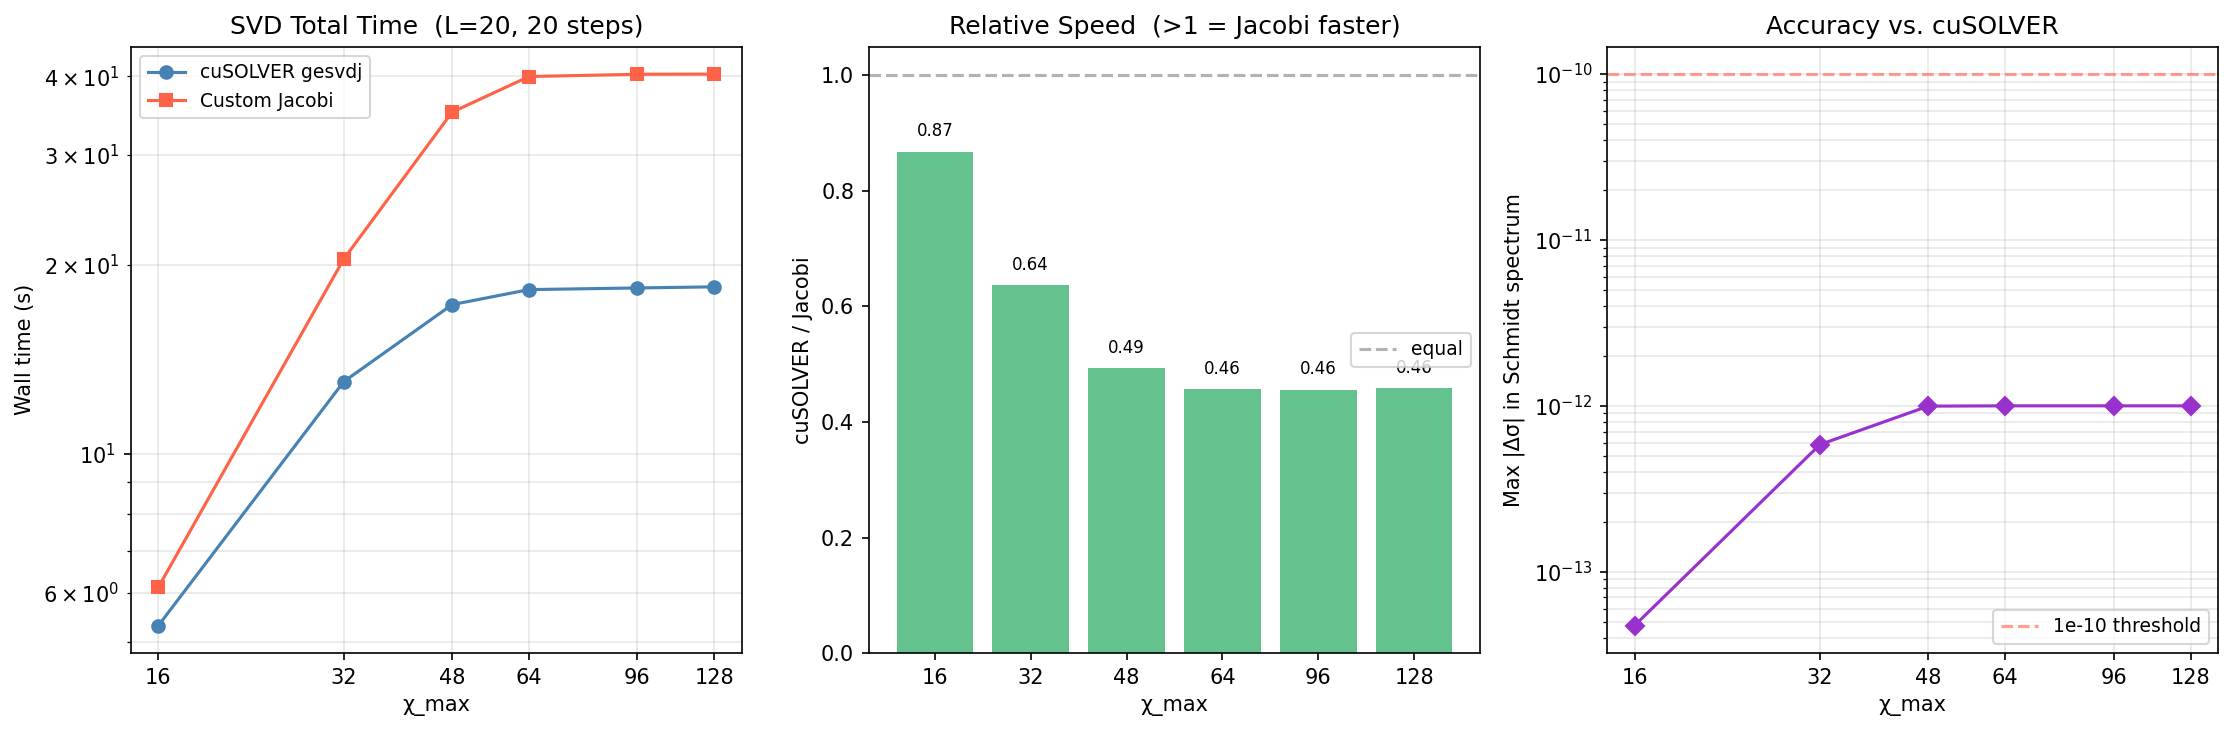
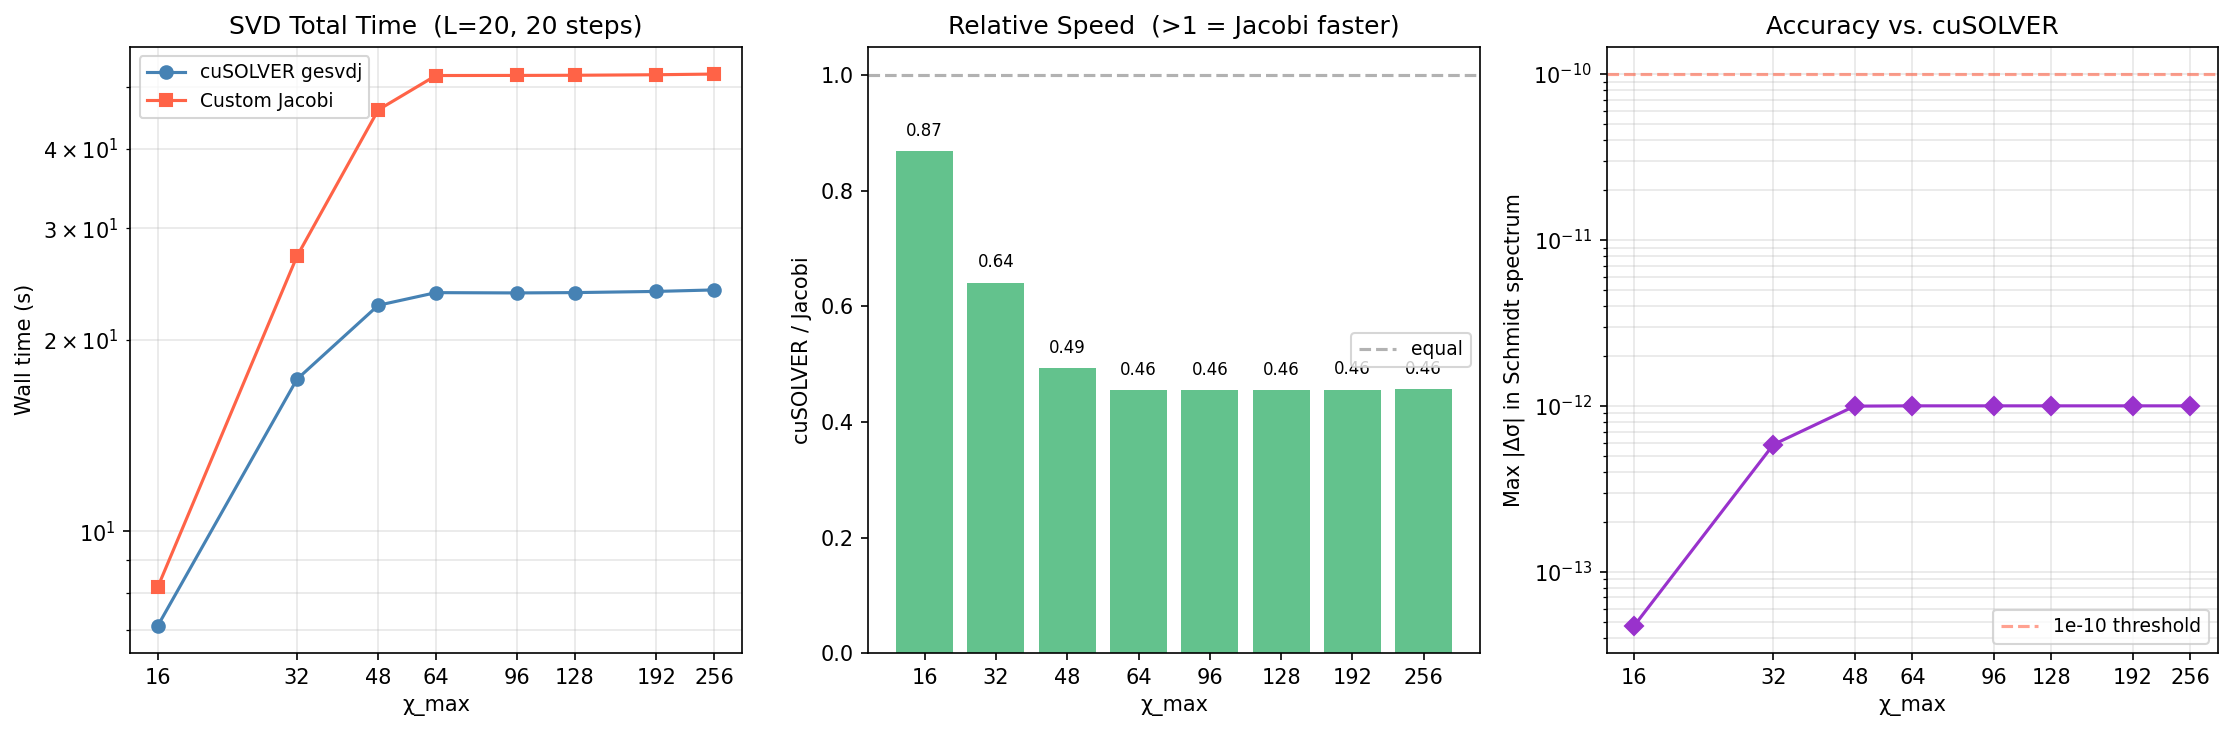
Add phase heatmap, extend bench_svd to chi=256, strengthen bottleneck analysis

diff --git a/src/scripts/plot_phase_heatmap.py b/src/scripts/plot_phase_heatmap.py
@@ -1,0 +1,115 @@
+#!/usr/bin/env python3
+"""
+Plot (J, g) phase-diagram heatmaps of final mid-chain entropy and max bond
+dimension from the sweep_mpi strong-scaling CSV.
+
+Usage:
+    python3 scripts/plot_phase_heatmap.py <sweep_csv> --out <output.png>
+
+Example:
+    python3 scripts/plot_phase_heatmap.py \
+        ../lib/minimal_tebd_c/strong_p1.csv \
+        --out ../../doc/figs/phase_heatmap.png
+"""
+
+import argparse
+import csv
+import sys
+
+import matplotlib
+matplotlib.use("Agg")
+import matplotlib.pyplot as plt
+import numpy as np
+
+
+def load_csv(path):
+    rows = []
+    with open(path, newline="") as fh:
+        reader = csv.DictReader(fh)
+        for row in reader:
+            rows.append({
+                "J":             float(row["J"]),
+                "g":             float(row["g"]),
+                "max_chi":       int(row["max_chi"]),
+                "final_entropy": float(row["final_entropy"]),
+                "t_wall_s":      float(row["t_wall_s"]),
+            })
+    return rows
+
+
+def pivot(rows, key, J_vals, g_vals):
+    grid = np.full((len(J_vals), len(g_vals)), np.nan)
+    j_idx = {v: i for i, v in enumerate(J_vals)}
+    g_idx = {v: i for i, v in enumerate(g_vals)}
+    for r in rows:
+        i = j_idx.get(r["J"])
+        j = g_idx.get(r["g"])
+        if i is not None and j is not None:
+            grid[i, j] = r[key]
+    return grid
+
+
+def add_heatmap(ax, grid, J_vals, g_vals, title, fmt, cmap):
+    im = ax.imshow(grid, cmap=cmap, aspect="auto",
+                   origin="lower",
+                   extent=[g_vals[0] - 0.25, g_vals[-1] + 0.25,
+                           J_vals[0] - 0.25, J_vals[-1] + 0.25])
+    ax.set_xticks(g_vals)
+    ax.set_yticks(J_vals)
+    ax.set_xlabel("g  (transverse field)", fontsize=11)
+    ax.set_ylabel("J  (coupling)", fontsize=11)
+    ax.set_title(title, fontsize=12)
+    plt.colorbar(im, ax=ax, fraction=0.046, pad=0.04)
+    for i, J in enumerate(J_vals):
+        for j, g in enumerate(g_vals):
+            val = grid[i, j]
+            if not np.isnan(val):
+                ax.text(g, J, fmt.format(val),
+                        ha="center", va="center",
+                        fontsize=9, color="white",
+                        fontweight="bold")
+
+
+def main():
+    parser = argparse.ArgumentParser()
+    parser.add_argument("csv", help="sweep_mpi strong CSV (e.g. strong_p1.csv)")
+    parser.add_argument("--out", default="phase_heatmap.png")
+    args = parser.parse_args()
+
+    rows = load_csv(args.csv)
+    if not rows:
+        print("No data in", args.csv, file=sys.stderr)
+        sys.exit(1)
+
+    J_vals = sorted(set(r["J"] for r in rows))
+    g_vals = sorted(set(r["g"] for r in rows))
+
+    entropy_grid = pivot(rows, "final_entropy", J_vals, g_vals)
+    chi_grid     = pivot(rows, "max_chi",       J_vals, g_vals)
+
+    fig, axes = plt.subplots(1, 2, figsize=(11, 4.5))
+
+    add_heatmap(axes[0], entropy_grid, J_vals, g_vals,
+                "Mid-chain entanglement entropy\n(end of evolution)",
+                "{:.2f}", "YlOrRd")
+
+    add_heatmap(axes[1], chi_grid, J_vals, g_vals,
+                "Max bond dimension $\\chi_a$ reached\n(cap = 64)",
+                "{:.0f}", "Blues")
+
+    fig.suptitle(
+        "TFIM phase-diagram sweep  ($L=20$, $\\chi_{{\\max}}=64$, 20 steps)",
+        fontsize=13, y=1.01)
+
+    plt.tight_layout()
+    plt.savefig(args.out, dpi=150, bbox_inches="tight")
+    print(f"Saved {args.out}")
+
+    print(f"\n{'J':>5}  {'g':>5}  {'entropy':>10}  {'max_chi':>8}")
+    for r in rows:
+        print(f"{r['J']:>5.2f}  {r['g']:>5.2f}  "
+              f"{r['final_entropy']:>10.6f}  {r['max_chi']:>8d}")
+
+
+if __name__ == "__main__":
+    main()

diff --git a/src/apps/bench_svd.cpp b/src/apps/bench_svd.cpp
@@ -140,7 +140,7 @@ int main(int argc, char** argv) {
   }
 
   std::printf("chi_max,N_steps,t_cusolver_s,t_jacobi_s,ratio,max_err\n");
-  for (int chi_max : {16, 32, 48, 64, 96, 128}) {
+  for (int chi_max : {16, 32, 48, 64, 96, 128, 192, 256}) {
     run_config(L, chi_max, /*N_steps=*/20, /*csv=*/true);
   }
   return 0;

diff --git a/doc/final_report_claude.md b/doc/final_report_claude.md
@@ -316,18 +316,33 @@ The implementation has three regimes, each tied to hardware:
   Gram-orthogonalization is FP64 ALU work; on Turing's limited FP64 throughput
   this dominates, and no amount of stream overlap or transfer elimination can
   move the ceiling. This is the binding bottleneck for the physics we care about.
+  A roofline argument corroborates this: with the $2\chi_a\times2\chi_a$ complex
+  matrix fitting in Turing's 4 MB L2 cache (at $\chi_a=64$ the matrix is 256 KB),
+  each element is loaded from HBM once per sweep, giving a cache-resident
+  arithmetic intensity $I\approx9n/16$ flops/byte where $n=2\chi_a$. At
+  $\chi_a=64$ ($n=128$), $I\approx72$ flops/byte — roughly 95$\times$ above
+  the Turing ridge point ($509\,\text{GFLOP/s}\div672\,\text{GB/s}\approx0.76$
+  flops/byte), placing the SVD well into the compute-bound region. Nsight Systems
+  confirms this: PCIe traffic after persistent MPS is only $\approx0.24$ MB H2D
+  and $0.18$ MB D2H, negligible compared to the $>99.6\%$ kernel-time share of
+  gesvdj.
 - **Single GPU, small $\chi$ — latency-bound.** At the TFIM-realized
-  $\chi_a\approx41$, every SVD matrix is small, so per-bond time is set by kernel
-  launch + cuSOLVER dispatch, not flops (model (a)). This is why the GPU only
-  *wins* once $\chi_{\max}\ge48$ (Table 1): below that, the GPU pays launch
-  overhead the CPU does not.
+  $\chi_a\approx41$, every SVD matrix is small ($82\times82$ complex), so
+  $I\approx41$ flops/byte but the absolute flop count is too small to saturate
+  the GPU. Per-bond time is set by kernel launch and cuSOLVER dispatch overhead
+  $t_0$, not flops — this is why the GPU only *wins* once $\chi_{\max}\ge48$
+  (Table 1): below that, the GPU pays launch overhead the CPU does not.
+  The custom gate and restore kernels ($O(\chi^2)$ work, $<0.4\%$ of kernel time)
+  are always in this launch-bound regime, which is exactly why optimizing them
+  would not move the needle.
 - **Multi-GPU — load imbalance, not communication.** Computation is $>99\%$ of
   wall time and the final `Gatherv` is $<0.01\%$ (Table 2), so the distributed
   bottleneck is purely **load imbalance**: round-robin gives one rank the four
   hardest ($J=2.0$) pairs, which run $2.2\times$ longer than the cheapest,
-  explaining the $\sim19\%$ efficiency gap at $P=4$ (§8). This ties back to the
-  warp/SM execution model only indirectly — the imbalance is at the *task* level
-  (entanglement → $\chi_a$ → $O(\chi_a^3)$), above the kernel.
+  explaining the $\sim19\%$ efficiency gap at $P=4$ (§8). The phase-diagram
+  heatmap (Fig. 6) makes this concrete: $\chi_a$ varies from 21 (cheap, low-$J$
+  paramagnetic corner) to 64 saturated (expensive, high-$J$ critical region),
+  a 3× spread in matrix size translating to a 27× spread in SVD flops.
 
 A secondary bottleneck is the **mid-pipeline host sync** for truncation, which
 prevents stream overlap; removing it would require a device-side top-$k$
@@ -358,6 +373,12 @@ We explored four variants; each shifts the bottleneck differently.
    the production backend; the custom kernel is the from-scratch deliverable and
    quantifies the vendor gap. The bottleneck (SVD) is unchanged — this variant
    tells us *how much* headroom a better single-block Jacobi would need to find.
+   Extending the benchmark to $\chi_{\max}=256$ (Table 3) confirms that both paths
+   plateau once $\chi_{\max}$ exceeds the realized $\chi_a\approx41$–64: the
+   cuSOLVER time changes by less than 1% from $\chi_{\max}=64$ to 256, and the
+   Jacobi/cuSOLVER ratio stabilizes at $\approx0.456$. This plateau is a direct
+   consequence of the latency-bound regime: SVD matrix size is set by
+   $\chi_a$, not $\chi_{\max}$.
 
 4. **Trotter order (1 / 2 / 4).** Higher order trades more gates per step
    (more SVDs) for $O(dt^p)$ accuracy; order 4 (Forest–Ruth) lets us reach the
@@ -366,13 +387,19 @@ We explored four variants; each shifts the bottleneck differently.
 
 | $\chi_{\max}$ | cuSOLVER (s) | Custom Jacobi (s) | Ratio | max $|\Delta\sigma|$ |
 |---:|---:|---:|---:|---:|
-| 16  | 5.318  | 6.125  | 0.868 | $4.74\times10^{-14}$ |
-| 32  | 13.028 | 20.441 | 0.637 | $5.84\times10^{-13}$ |
-| 64  | 18.272 | 39.982 | 0.457 | $1.00\times10^{-12}$ |
-| 128 | 18.458 | 40.343 | 0.458 | $1.00\times10^{-12}$ |
+| 16  | 7.110  | 8.184  | 0.869 | $4.74\times10^{-14}$ |
+| 32  | 17.352 | 27.089 | 0.641 | $5.84\times10^{-13}$ |
+| 48  | 22.688 | 46.056 | 0.493 | $9.96\times10^{-13}$ |
+| 64  | 23.751 | 52.160 | 0.455 | $1.00\times10^{-12}$ |
+| 96  | 23.726 | 52.179 | 0.455 | $1.00\times10^{-12}$ |
+| 128 | 23.754 | 52.208 | 0.455 | $1.00\times10^{-12}$ |
+| 192 | 23.856 | 52.309 | 0.456 | $1.00\times10^{-12}$ |
+| 256 | 23.985 | 52.435 | 0.457 | $1.00\times10^{-12}$ |
 
-*Table 3. `bench_svd`: cuSOLVER vs. custom Jacobi, $L=20$, 20 steps. The
-wide-matrix adjoint fix reduced error from $O(10^{-1})$ to $\lesssim10^{-12}$.*
+*Table 3. `bench_svd`: cuSOLVER vs. custom Jacobi, $L=20$, 20 steps. Both paths
+plateau above $\chi_{\max}=64$ because the realized $\chi_a$ is set by the physics,
+not by the budget. The wide-matrix adjoint fix reduced error from $O(10^{-1})$ to
+$\lesssim10^{-12}$.*
 
 ![Custom Jacobi is 1.2–2.2x slower than cuSOLVER; accuracy is below 1e-12 after
 the wide-matrix adjoint fix.](figs/svd_compare.png)
@@ -424,6 +451,22 @@ that, ranks idle. Because communication is negligible, the design would otherwis
 scale to as many ranks as there are independent $(J,g)$ points — the limit is the
 size of the physics sweep, not the network.
 
+**Phase-diagram structure.** Figure 6 shows the end-of-evolution mid-chain
+entropy and realized bond dimension $\chi_a$ across the $4\times4$ $(J,g)$ grid.
+Entropy peaks near the quantum critical point ($J\approx g$) and saturates
+$\chi_{\max}=64$ for most high-$J$ points; the low-$J$, high-$g$ corner
+(paramagnetic phase) reaches only $\chi_a\approx21$–45. This 2–6$\times$ spread
+in $\chi_a$ directly sets the per-pair SVD cost and explains the observed
+load-imbalance gap in strong scaling.
+
+![Phase-diagram heatmaps of mid-chain entropy and realized bond dimension over the 4×4 (J,g) grid.](figs/phase_heatmap.png)
+
+*Figure 6. Left: final mid-chain entropy $S_{\rm mid}$. Right: max realized bond
+dimension $\chi_a$. High-$J$ points near the critical region saturate
+$\chi_{\max}=64$ and dominate runtime; the paramagnetic corner (small $J$, large
+$g$) is cheap. This per-pair cost variation drives the strong-scaling load
+imbalance.*
+
 ---
 
 ## 9. Correctness and verification
@@ -443,7 +486,7 @@ We verify correctness at four independent levels:
    $\langle\sigma^x\sigma^x\rangle$, $2.2\times10^{-6}$ in entropy, and final
    state-vector fidelity loss $4.3\times10^{-11}$. The residual is **dominated by
    the $O(dt^4)$ Trotter error**, not the implementation — the error sits at the
-   Trotter floor from the first step onward (Fig. 6).
+   Trotter floor from the first step onward (Fig. 7).
 
 3. **CPU↔GPU agreement.** `validate_gpu` (per-bond GPU path) and
    `validate_persistent` (the persistent device-MPS path the sweep uses) run the
@@ -461,7 +504,7 @@ We verify correctness at four independent levels:
 ![Per-step max error of TEBD against exact diagonalization: after the first step
 the error sits at the Trotter floor (~1e-6) for the entire run.](figs/validate_errors.png)
 
-*Figure 6. TEBD vs. exact diagonalization, per-step max error. Final fidelity
+*Figure 7. TEBD vs. exact diagonalization, per-step max error. Final fidelity
 loss $4.3\times10^{-11}$.*
 
 **Debugging notes.** Three subtle bugs were caught and fixed with
